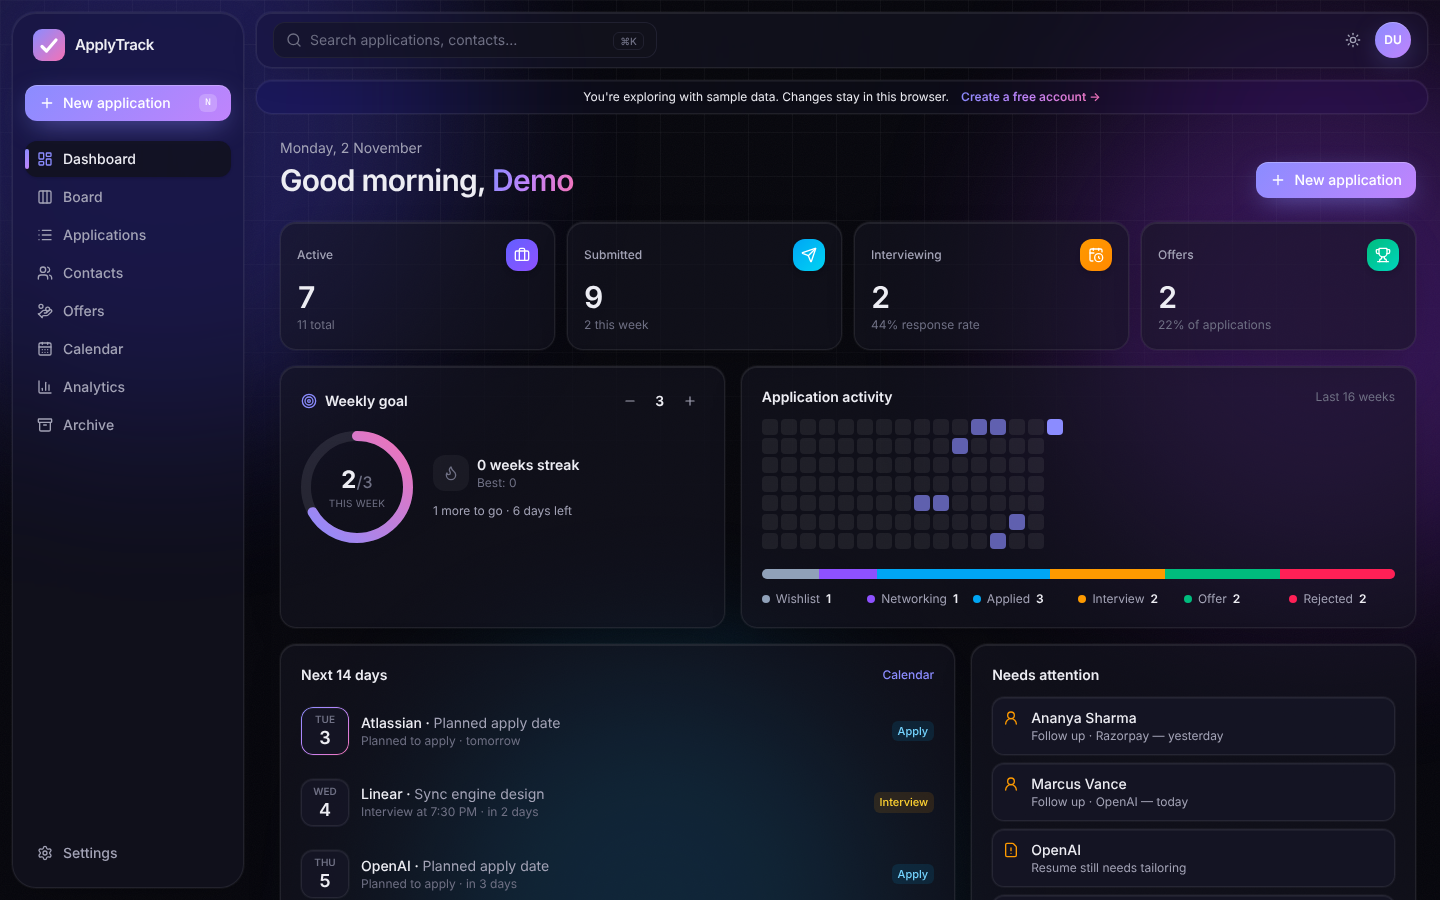
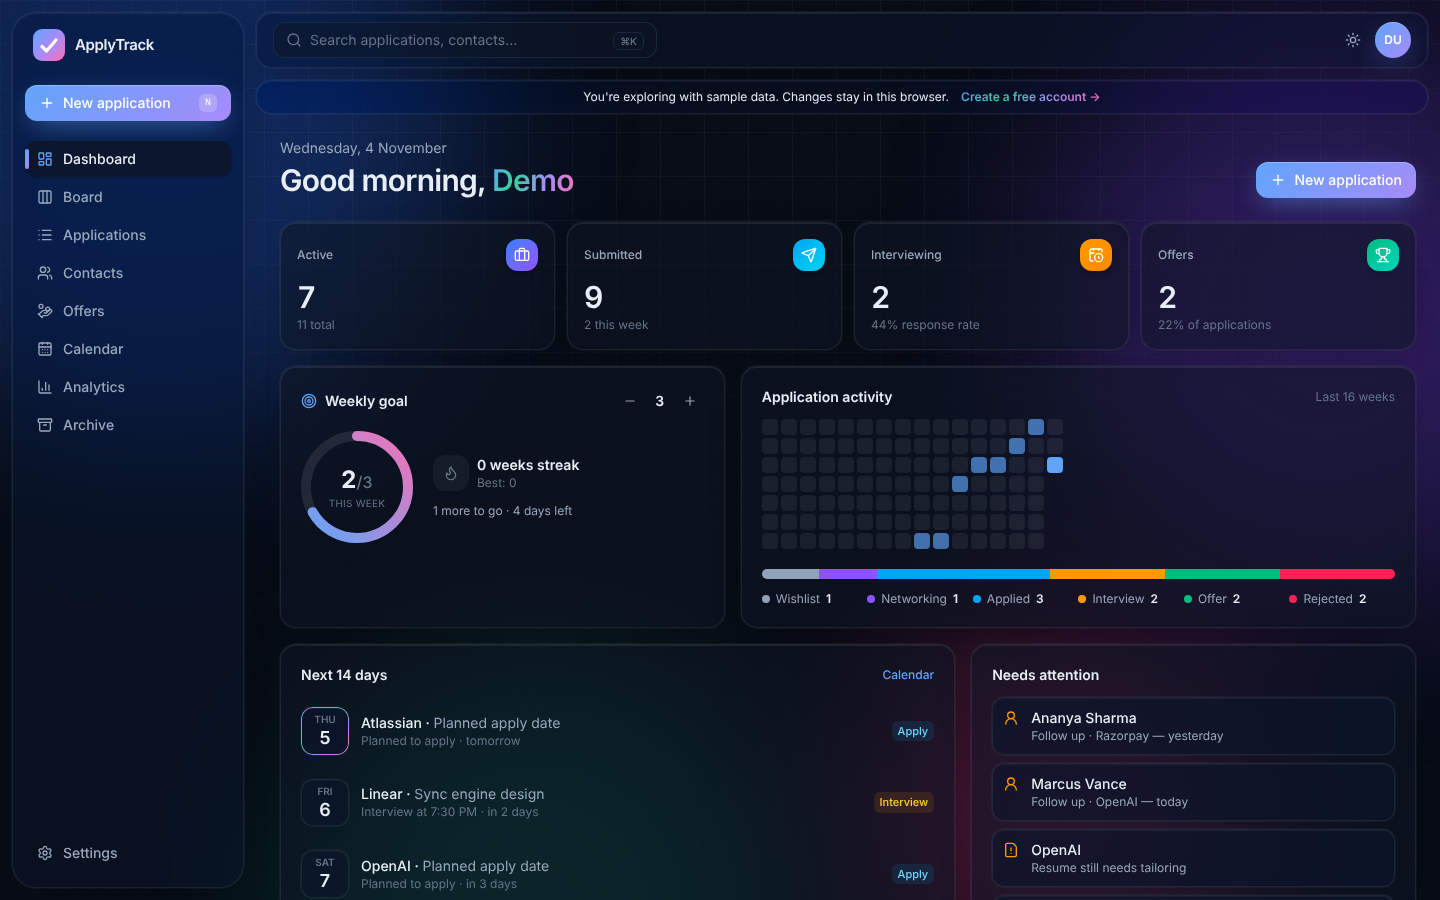
style: cool blue, green, purple and pink palette
- New accent set (blue, emerald, violet, pink) for gradients, glow and rings
- Deep navy dark theme and cooler light theme
- Fourth ambient blob so all four colours show behind the glass
- Regenerated icons and README screenshots

diff --git a/src/index.css b/src/index.css
@@ -14,6 +14,8 @@
   --color-subtle: var(--subtle);
   --color-accent: var(--accent);
   --color-accent-2: var(--accent-2);
+  --color-accent-3: var(--accent-3);
+  --color-accent-4: var(--accent-4);
   --color-accent-fg: var(--accent-fg);
   --color-accent-soft: var(--accent-soft);
   --color-danger: var(--danger);
@@ -25,57 +27,61 @@
 }
 
 :root {
-  --bg: #eef0f8;
+  --bg: #edf2f8;
   --surface: #ffffff;
-  --surface-2: #f1f2f8;
-  --border: #dfe1ec;
-  --fg: #15151f;
-  --muted: #565869;
-  --subtle: #868899;
-  --accent: #5b5bf0;
-  --accent-2: #a855f7;
+  --surface-2: #eff4f9;
+  --border: #d9e2ee;
+  --fg: #0f172a;
+  --muted: #4b5568;
+  --subtle: #7b8799;
+  --accent: #3b6cf6;
+  --accent-2: #8b5cf6;
   --accent-3: #ec4899;
+  --accent-4: #10b981;
   --accent-fg: #ffffff;
-  --accent-soft: #e9eaff;
+  --accent-soft: #e5edff;
   --danger: #dc2626;
-  --ring: #818cf8;
+  --ring: #60a5fa;
 
-  --glass: rgb(255 255 255 / 0.62);
-  --glass-strong: rgb(255 255 255 / 0.82);
+  --glass: rgb(255 255 255 / 0.6);
+  --glass-strong: rgb(255 255 255 / 0.8);
   --glass-border: rgb(255 255 255 / 0.75);
   --glass-edge: rgb(15 23 42 / 0.07);
-  --glass-shadow: rgb(31 38 135 / 0.12);
-  --blob-1: #a5b4fc;
-  --blob-2: #f0abfc;
-  --blob-3: #7dd3fc;
+  --glass-shadow: rgb(30 64 175 / 0.13);
+  --blob-1: #93c5fd;
+  --blob-2: #6ee7b7;
+  --blob-3: #c4b5fd;
+  --blob-4: #f9a8d4;
   --grid: rgb(15 23 42 / 0.05);
   color-scheme: light;
 }
 
 .dark {
-  --bg: #07070d;
-  --surface: #12121b;
-  --surface-2: #1a1a26;
-  --border: #2a2a3a;
-  --fg: #ededf3;
-  --muted: #a3a3b6;
-  --subtle: #6f7084;
-  --accent: #8b8cff;
-  --accent-2: #c084fc;
+  --bg: #050a14;
+  --surface: #0e1524;
+  --surface-2: #152033;
+  --border: #22304a;
+  --fg: #e8eef7;
+  --muted: #9aa8bd;
+  --subtle: #66748a;
+  --accent: #60a5fa;
+  --accent-2: #a78bfa;
   --accent-3: #f472b6;
-  --accent-fg: #0b0b12;
-  --accent-soft: #1f2040;
+  --accent-4: #34d399;
+  --accent-fg: #06101f;
+  --accent-soft: #14223d;
   --danger: #f87171;
-  --ring: #6366f1;
+  --ring: #3b82f6;
 
-  --glass: rgb(22 22 34 / 0.55);
-  --glass-strong: rgb(22 22 34 / 0.8);
+  --glass: rgb(14 21 36 / 0.55);
+  --glass-strong: rgb(14 21 36 / 0.8);
   --glass-border: rgb(255 255 255 / 0.08);
   --glass-edge: rgb(255 255 255 / 0.04);
   --glass-shadow: rgb(0 0 0 / 0.45);
-  --blob-1: #4f46e5;
-  --blob-2: #9333ea;
-  --blob-3: #0ea5e9;
+  --blob-1: #2563eb;
+  --blob-2: #059669;
+  --blob-3: #7c3aed;
+  --blob-4: #db2777;
   --grid: rgb(255 255 255 / 0.035);
   color-scheme: dark;
 }
@@ -135,7 +141,7 @@ body {
 /* ---------- Accents ---------- */
 
 .text-gradient {
-  background: linear-gradient(110deg, var(--accent) 0%, var(--accent-2) 45%, var(--accent-3) 100%);
+  background: linear-gradient(110deg, var(--accent) 0%, var(--accent-4) 30%, var(--accent-2) 65%, var(--accent-3) 100%);
   -webkit-background-clip: text;
   background-clip: text;
   color: transparent;
@@ -161,7 +167,7 @@ body {
   inset: -1px;
   border-radius: inherit;
   padding: 1px;
-  background: linear-gradient(135deg, var(--accent), var(--accent-2), var(--accent-3));
+  background: linear-gradient(135deg, var(--accent), var(--accent-4), var(--accent-2), var(--accent-3));
   -webkit-mask:
     linear-gradient(#000 0 0) content-box,
     linear-gradient(#000 0 0);

diff --git a/src/components/layout/Ambient.tsx b/src/components/layout/Ambient.tsx
@@ -5,11 +5,15 @@ export function Ambient() {
       <div className="blob" style={{ width: '42vw', height: '42vw', left: '-10vw', top: '-12vw', background: 'var(--blob-1)' }} />
       <div
         className="blob"
-        style={{ width: '36vw', height: '36vw', right: '-8vw', top: '8vh', background: 'var(--blob-2)', animationDelay: '-7s' }}
+        style={{ width: '36vw', height: '36vw', right: '-8vw', top: '8vh', background: 'var(--blob-3)', animationDelay: '-7s' }}
       />
       <div
         className="blob"
-        style={{ width: '34vw', height: '34vw', left: '30vw', bottom: '-16vw', background: 'var(--blob-3)', animationDelay: '-14s' }}
+        style={{ width: '34vw', height: '34vw', left: '22vw', bottom: '-16vw', background: 'var(--blob-2)', animationDelay: '-14s' }}
+      />
+      <div
+        className="blob"
+        style={{ width: '28vw', height: '28vw', right: '12vw', bottom: '-8vw', background: 'var(--blob-4)', animationDelay: '-18s' }}
       />
       <div className="grid" />
       <div className="noise" />

diff --git a/src/pages/Dashboard.tsx b/src/pages/Dashboard.tsx
@@ -96,7 +96,7 @@ export default function Dashboard() {
       {header}
 
       <div className="grid grid-cols-2 gap-3 lg:grid-cols-4">
-        <Stat icon={Briefcase} label="Active" value={s.active} hint={`${s.total} total`} tint="from-indigo-500 to-violet-500" />
+        <Stat icon={Briefcase} label="Active" value={s.active} hint={`${s.total} total`} tint="from-blue-500 to-violet-500" />
         <Stat icon={Send} label="Submitted" value={s.submitted} hint={`${goal.thisWeek} this week`} tint="from-sky-500 to-cyan-400" />
         <Stat icon={CalendarClock} label="Interviewing" value={s.interviews} hint={`${s.responseRate}% response rate`} tint="from-amber-500 to-orange-400" />
         <Stat icon={Trophy} label="Offers" value={s.offers} hint={s.submitted ? `${s.offerRate}% of applications` : '—'} tint="from-emerald-500 to-teal-400" />

diff --git a/index.html b/index.html
@@ -10,7 +10,7 @@
     <meta name="apple-mobile-web-app-title" content="ApplyTrack" />
     <meta name="viewport" content="width=device-width, initial-scale=1.0" />
     <meta name="description" content="ApplyTrack — organize every job application, interview and offer in one place." />
-    <meta name="theme-color" content="#5b5bf0" />
+    <meta name="theme-color" content="#3b6cf6" />
     <title>ApplyTrack — Job Application Tracker</title>
     <script>
       try {

diff --git a/src/components/layout/Logo.tsx b/src/components/layout/Logo.tsx
@@ -7,6 +7,7 @@ export function Logo({ className = 'size-8' }: { className?: string }) {
       <defs>
         <linearGradient id={id} x1="0" y1="0" x2="1" y2="1">
           <stop offset="0" stopColor="var(--accent)" />
+          <stop offset="0.5" stopColor="var(--accent-2)" />
           <stop offset="1" stopColor="var(--accent-3)" />
         </linearGradient>
       </defs>
